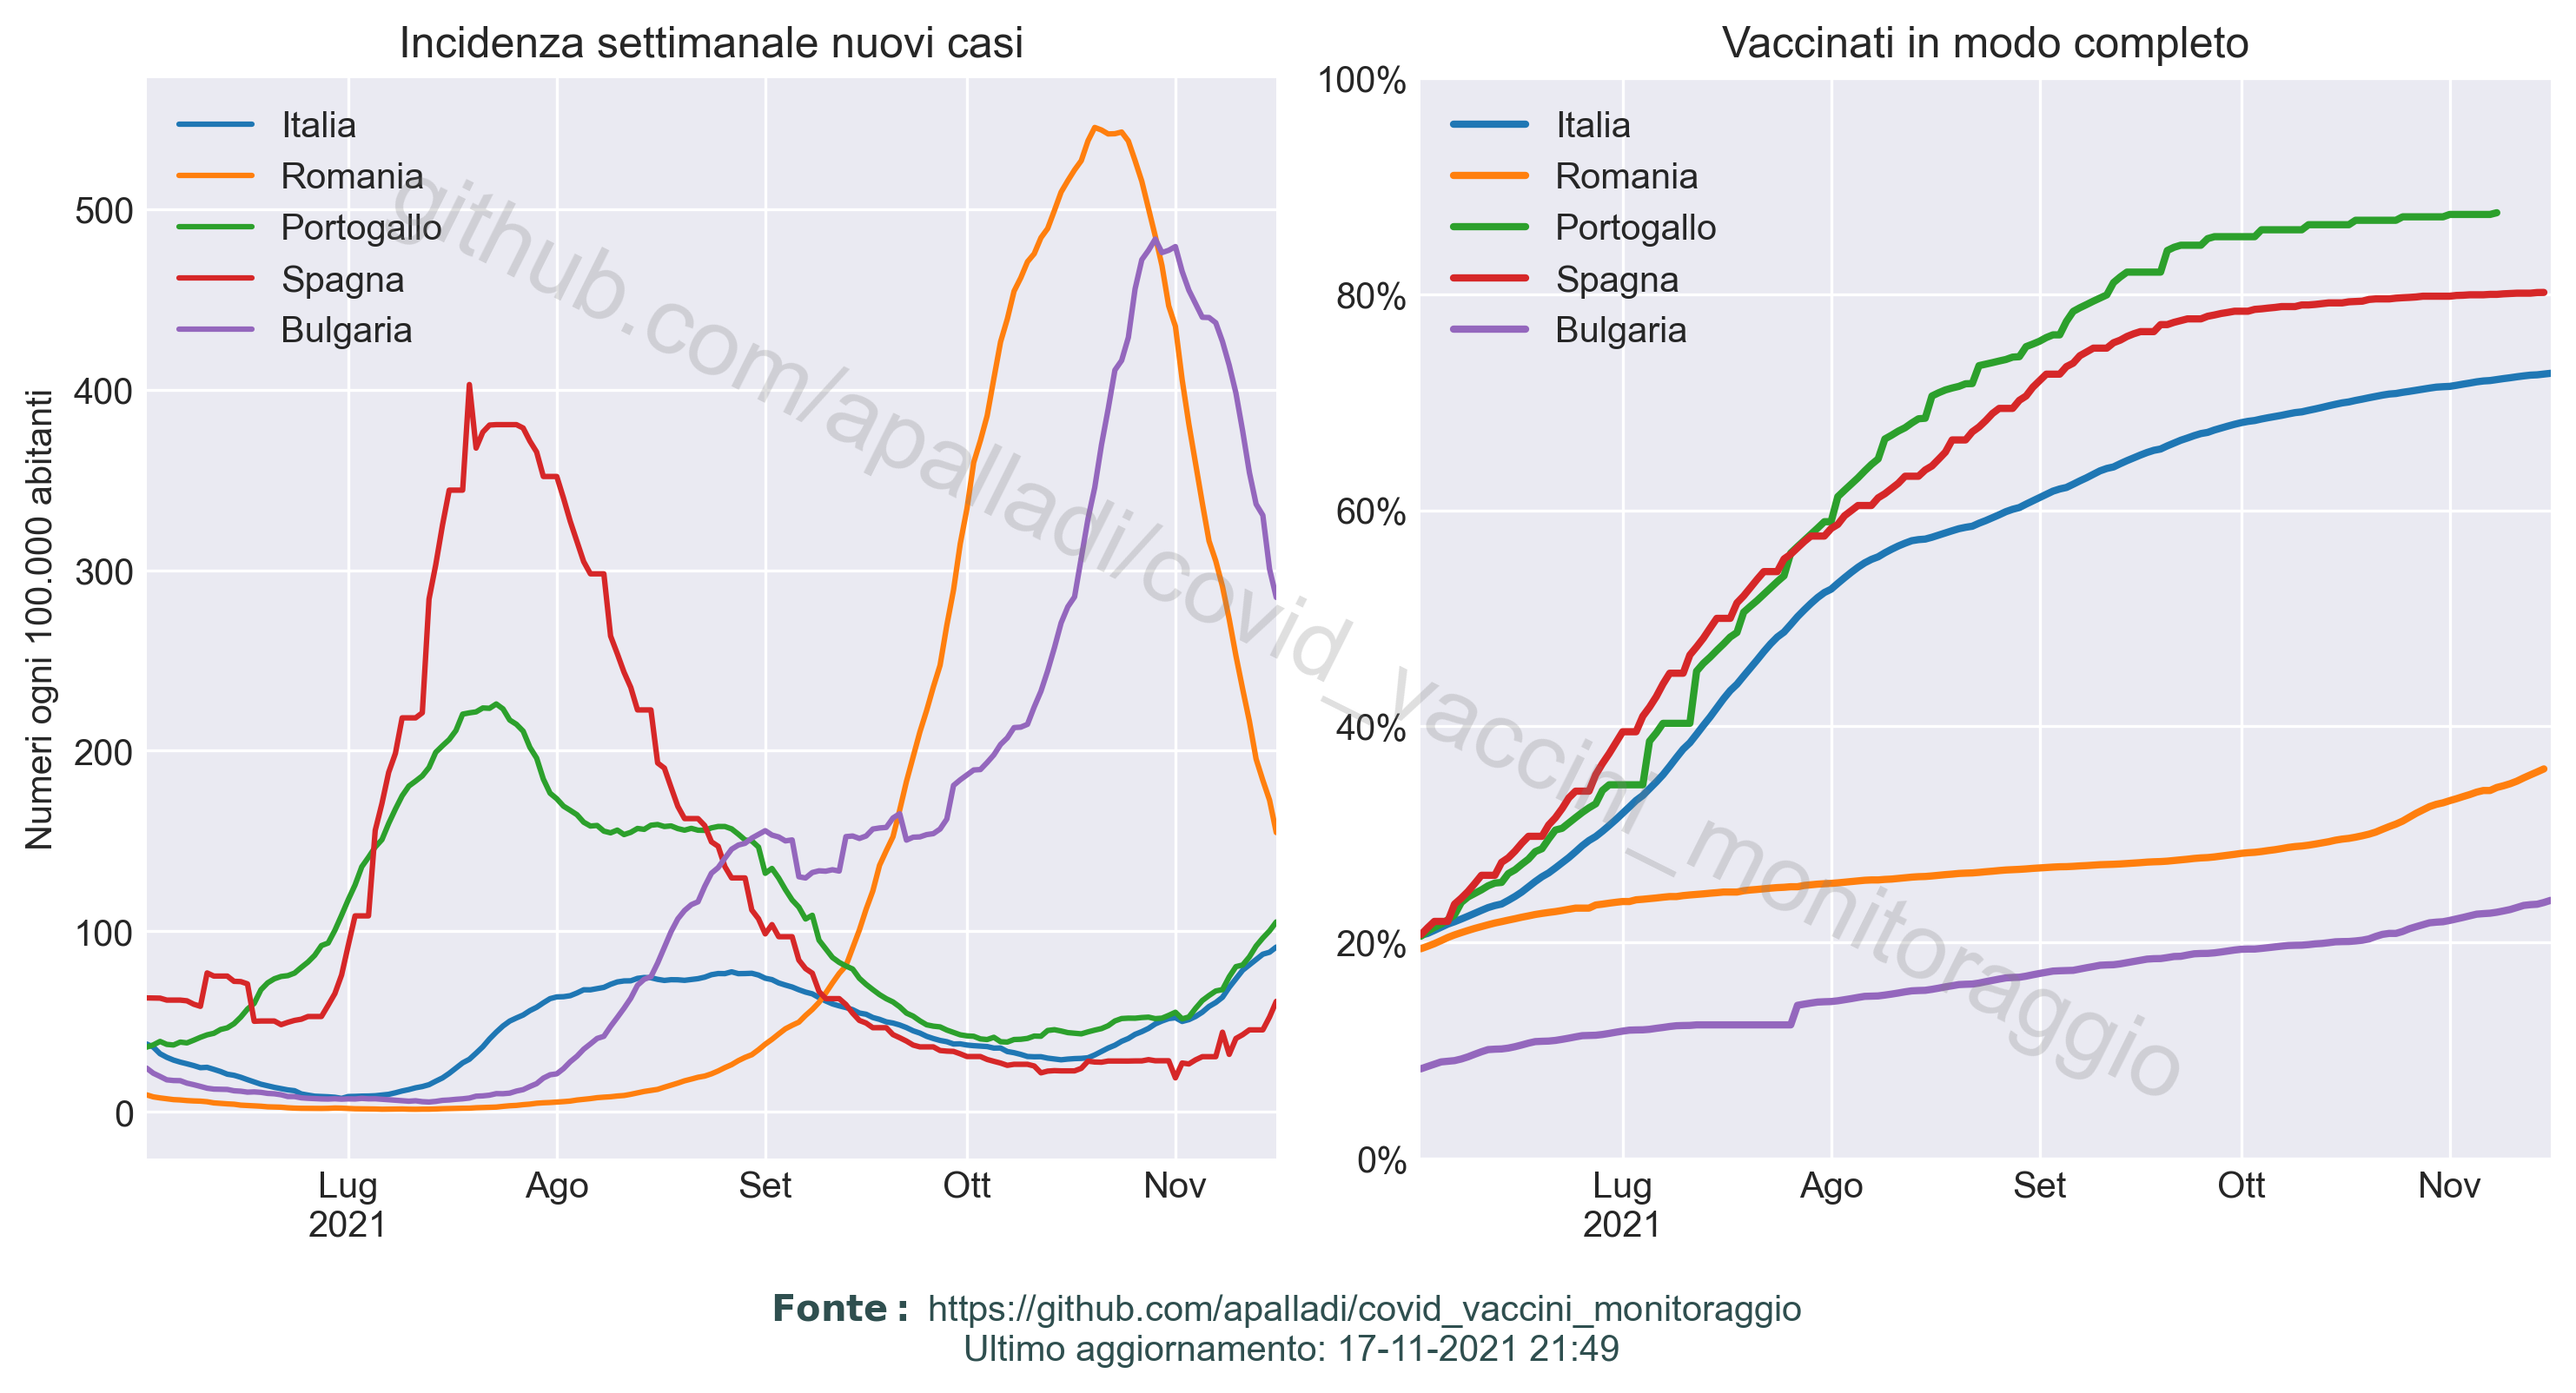
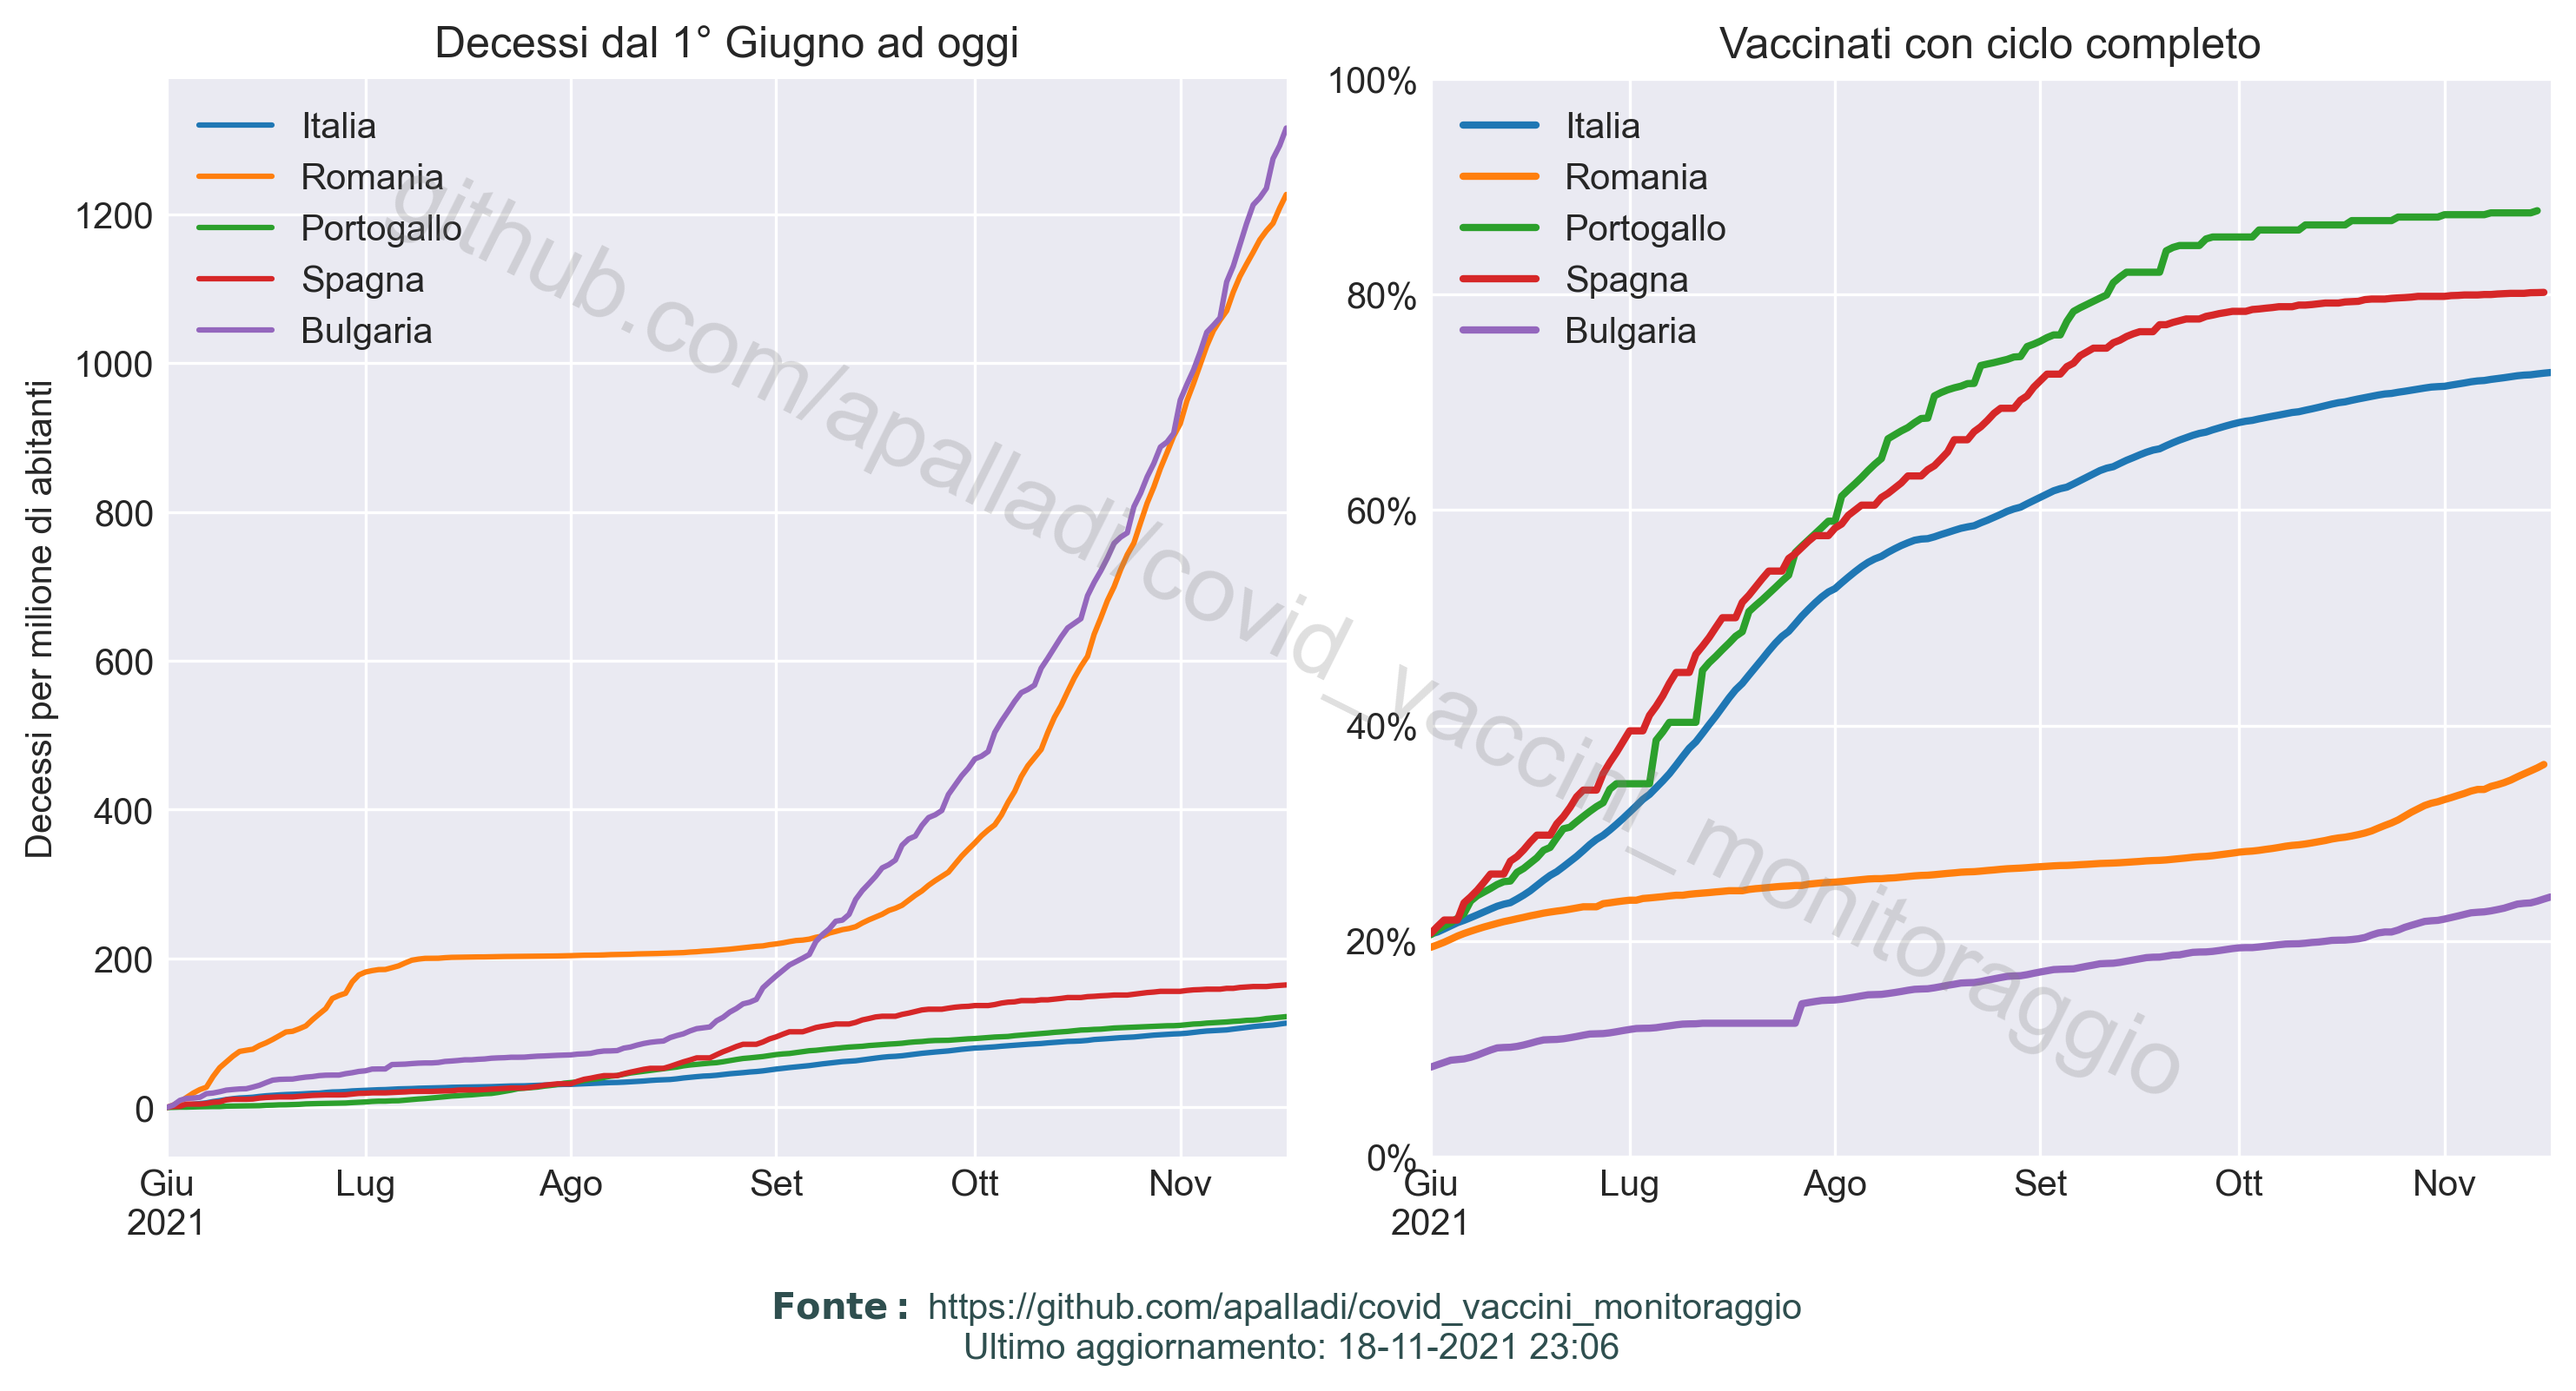
mostra decessi cumulativi invece di incidenza nei confronti tra nazioni europee

diff --git a/scripts/confronti_europei.py b/scripts/confronti_europei.py
@@ -201,8 +201,8 @@ def plot_selection(show=False):
     label_nazioni = ["Italia", "Romania", "Portogallo", "Spagna", "Bulgaria"]
     abitanti_nazioni = [59.55, 19.29, 10.31, 47.35, 6.927]
 
-    x_date = ["2021-07-01", "2021-08-01", "2021-09-01", "2021-10-01", "2021-11-01"]
-    x_label = ["Lug\n2021", "Ago", "Set", "Ott", "Nov"]
+    x_date = ["2021-06-01", "2021-07-01", "2021-08-01", "2021-09-01", "2021-10-01", "2021-11-01"]
+    x_label = ["Giu\n2021", "Lug", "Ago", "Set", "Ott", "Nov"]
 
     fig, axes2 = plt.subplots(nrows=1, ncols=2, figsize=(10, 5))
 
@@ -218,16 +218,17 @@ def plot_selection(show=False):
                                     df_recovered)
         new_date = df_epid.index[-1]
         mask_ = df_epid.index >= "2021-06-01"
-        values = 7/(abitanti_nazioni[i]*10)*df_epid["Daily cases (avg 7 days)"]
-        values[mask_].plot(ax=axes[0], label=label_nazioni[i])
+        df_epid = df_epid.loc[mask_, :]
+        values = 1/(abitanti_nazioni[i])*(df_epid["Total deaths"]-df_epid["Total deaths"][0])
+        values.plot(ax=axes[0], label=label_nazioni[i])
         last_updated, x_date, x_label = aggiorna_ascissa(last_updated,
                                                          new_date,
                                                          x_date,
                                                          x_label)
 
     axes[0].set_xlim("2021-06-01", last_updated)
-    axes[0].set_title("Incidenza settimanale nuovi casi")
-    axes[0].set_ylabel("Numeri ogni 100.000 abitanti")
+    axes[0].set_title("Decessi dal 1° Giugno ad oggi")
+    axes[0].set_ylabel("Decessi per milione di abitanti")
     axes[0].set_xlabel("")
     axes[0].set_xticks(x_date)
     axes[0].set_xticklabels(x_label)
@@ -251,7 +252,7 @@ def plot_selection(show=False):
     axes[1].set_ylim(0, 100)
     axes[1].set_yticks(np.arange(0, 101, 20))
     axes[1].set_yticklabels(["0%", "20%", "40%", "60%", "80%", "100%"])
-    axes[1].set_title("Vaccinati in modo completo")
+    axes[1].set_title("Vaccinati con ciclo completo")
     axes[1].set_xlabel("")
     axes[1].set_xticks(x_date)
     axes[1].set_xticklabels(x_label)
